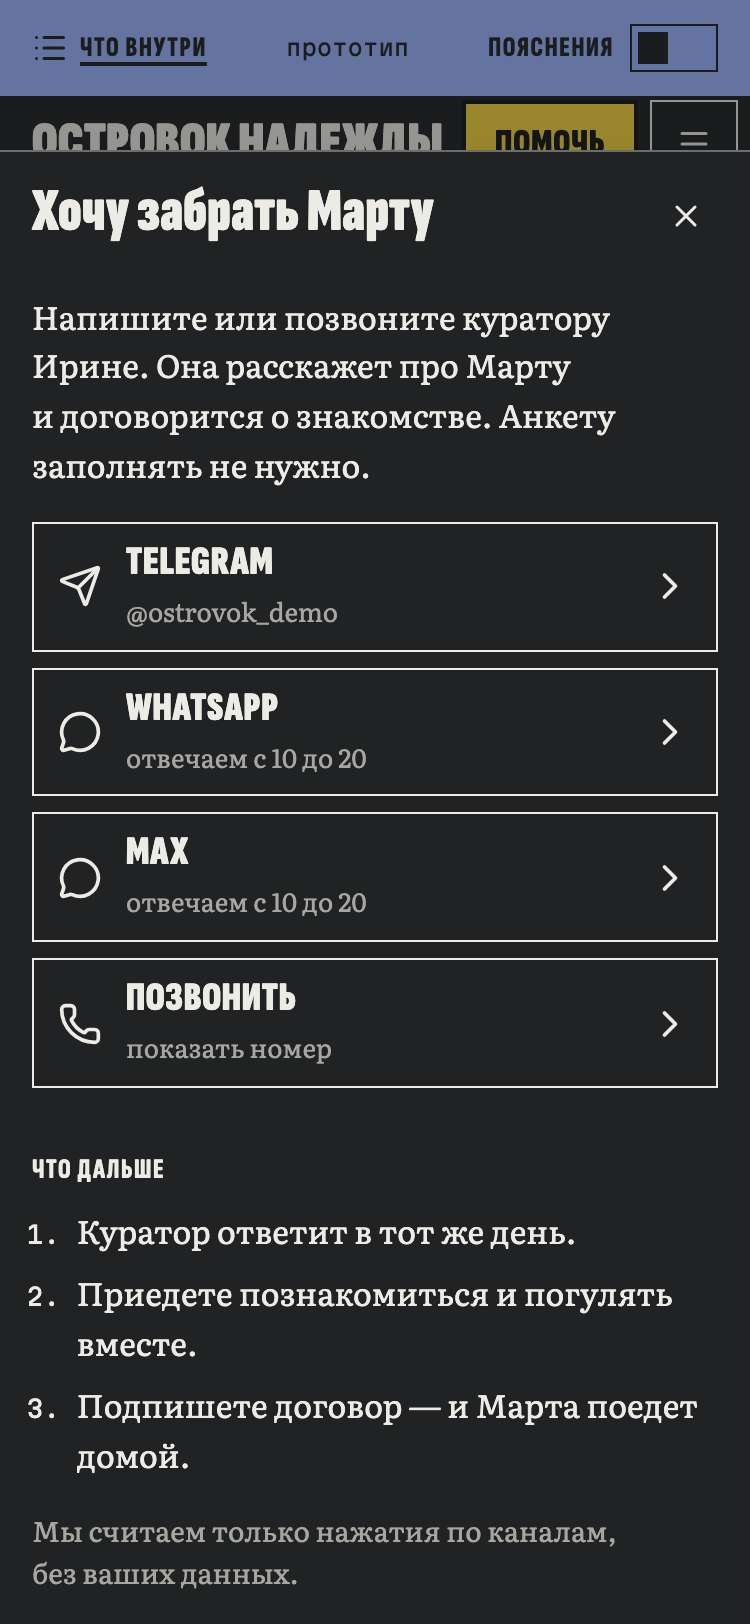
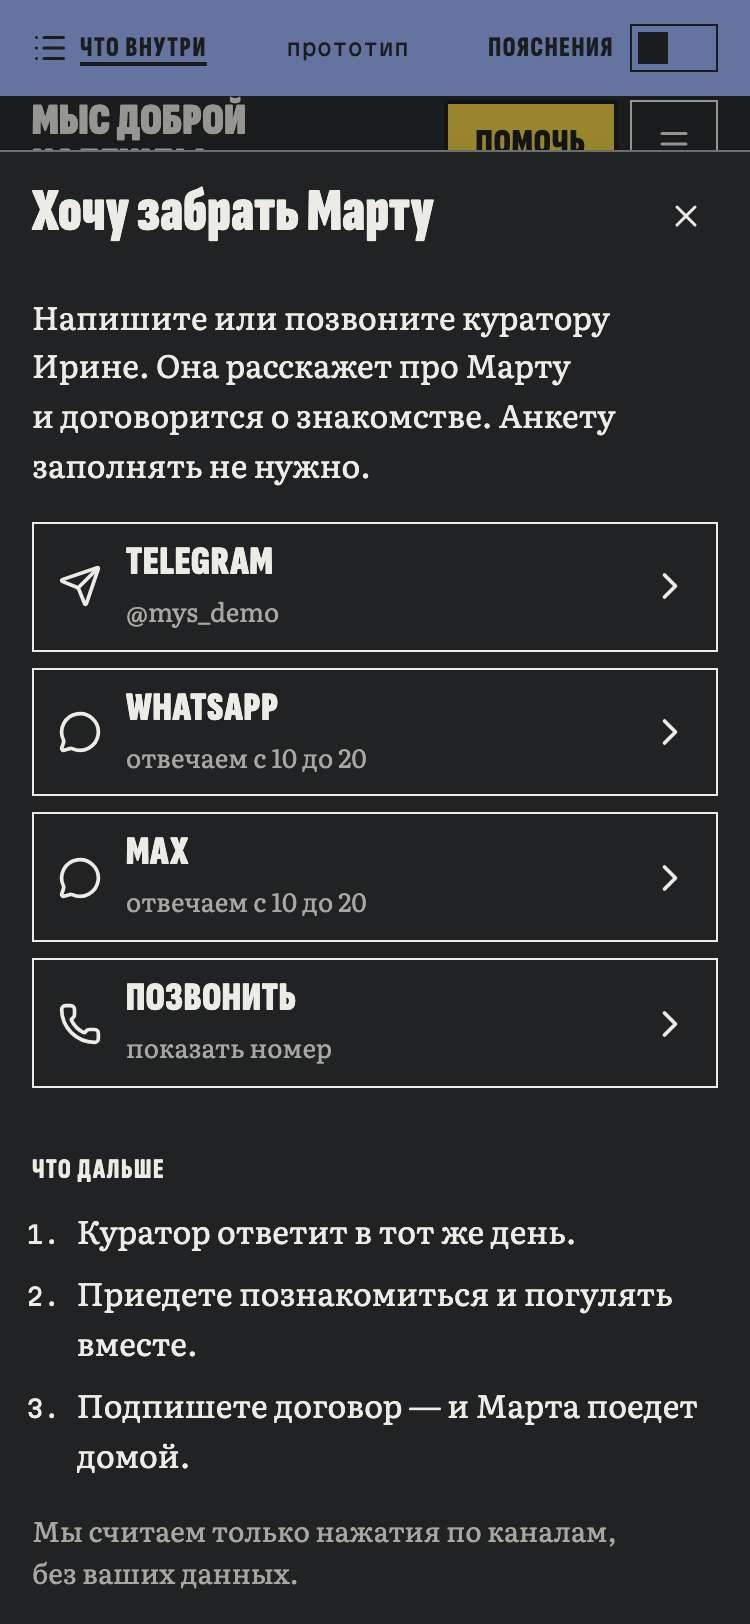
[DS-11] Переименование приюта: «Мыс доброй надежды» — прототип и тесты (#139)
* chore(prototype): rename the shelter to «Мыс доброй надежды»

The shelter is called «Мыс доброй надежды», not «Островок Надежды».
Renames it in the title, the header, the admin bar, the hub and the
«О приюте» page, the meta description, the demo contacts and the
localStorage keys (mys-theme, mys-notes). The file to publish is now
dist/mys-dobroy-nadezhdy.html.

Refs #138

* fix(prototype): put the name in two lines in the phone header

The new name is two letters longer: in one line at 375 px it pushed the
«Помочь» button 21 px off the screen on every page but the home one.
Below 640 px the header mark now stands in two lines of 22 px, as tall
as the button; it also fits at 320 and 360 px, where the old name did
not.

Refs #138

* test(admin): use the shelter's name in the settings tests

Refs #138

* docs(prototype): retake the screenshots with the new name

Refs #138

---------

Changed region(s): [[0.0307, 0.0616, 1.0, 0.0924], [0.2147, 0.3695, 0.46, 0.4002]]

diff --git a/prototype/src/js/90-app.js b/prototype/src/js/90-app.js
@@ -86,7 +86,7 @@ function siteHeader(page, route) {
   ).join("");
   const dark = isDark();
   return `<header class="site-header"><div class="wrap site-header-in">
-    <a class="mark" href="#/home">Островок Надежды</a>
+    <a class="mark" href="#/home">Мыс доброй <br />надежды</a>
     <nav class="site-nav" aria-label="Основная">${nav}</nav>
     <div class="site-tools">
       <button type="button" class="btn btn-outline btn-icon header-theme" id="theme-toggle" data-action="theme" aria-label="${dark ? "Включить светлую тему" : "Включить тёмную тему"}">${icon(dark ? "sun" : "moon")}</button>
@@ -98,7 +98,7 @@ function siteHeader(page, route) {
 
 function siteFooter() {
   return `<footer class="site-footer surface-footer"><div class="wrap">
-    <a class="mark" href="#/home">Островок Надежды</a>
+    <a class="mark" href="#/home">Мыс доброй надежды</a>
     <div class="footer-cols">
       <p class="muted">${SHELTER.legal} · ИНН 0000000000 · реквизиты и устав — в разделе «Документы». Демо-данные.</p>
       <ul><li><a href="#/about">О приюте</a></li><li><a href="#/documents">Документы</a></li><li><a href="#/contacts">Контакты</a></li><li><a href="#/stories">Они дома</a></li></ul>
@@ -133,7 +133,7 @@ function adminChrome(page, route) {
       `<a href="${href}"${names.includes(route?.name) ? ' aria-current="page"' : ""}>${icon(name)}${title}</a>`,
   ).join("");
   return `<header class="admin-bar admin"><div class="wrap admin-bar-in">
-      <a class="admin-mark" href="#/admin">Островок Надежды · Админка</a>
+      <a class="admin-mark" href="#/admin">Мыс доброй надежды · Админка</a>
       <div class="row">
         <span>${STAFF.name} <span class="muted">· ${STAFF.role}</span></span>
         <button type="button" class="btn btn-outline btn-icon btn-sm" id="theme-toggle" data-action="theme" aria-label="${dark ? "Включить светлую тему" : "Включить тёмную тему"}">${icon(dark ? "sun" : "moon")}</button>
@@ -214,7 +214,7 @@ function render(options = {}) {
   renderedHash = currentHash;
   app.classList.toggle("is-refresh", keepScroll);
   app.innerHTML = shell(page, route);
-  document.title = `${page.title} — Островок Надежды`;
+  document.title = `${page.title} — Мыс доброй надежды`;
   layerRoot.classList.toggle("admin", Boolean(page.admin));
   typograf(app);
   if (keepScroll) {
@@ -404,7 +404,7 @@ function syncThemeButton() {
 
 ACTIONS.theme = (el) => {
   ui.theme = isDark() ? "light" : "dark";
-  remember("ostrovok-theme", ui.theme);
+  remember("mys-theme", ui.theme);
   applyTheme();
   syncThemeButton();
   if (ui.layer?.type === "menu") refresh(el.id);
@@ -412,7 +412,7 @@ ACTIONS.theme = (el) => {
 
 ACTIONS.notes = (el) => {
   ui.notes = el.checked;
-  remember("ostrovok-notes", ui.notes ? "on" : null);
+  remember("mys-notes", ui.notes ? "on" : null);
   document.documentElement.classList.toggle("notes-on", ui.notes);
   if (!ui.notes) return;
   // Say how many notes this screen has: the first one may be below the fold.
@@ -624,8 +624,8 @@ window.protoCheck = protoCheck;
 // ——— Start.
 
 document.documentElement.lang = "ru";
-ui.theme = recall("ostrovok-theme");
-ui.notes = recall("ostrovok-notes") === "on";
+ui.theme = recall("mys-theme");
+ui.notes = recall("mys-notes") === "on";
 document.documentElement.classList.toggle("notes-on", ui.notes);
 applyTheme();
 new MutationObserver(() => {

diff --git a/e2e/admin-shell.spec.ts b/e2e/admin-shell.spec.ts
@@ -158,7 +158,9 @@ test("the owner fills in the settings; they validate and stay saved", async ({
 
   // An invalid field: the error is at the field, which takes the focus, and
   // what was typed stays.
-  await page.getByLabel("Название организации").fill("АНО «Островок Надежды»");
+  await page
+    .getByLabel("Название организации")
+    .fill("АНО «Мыс доброй надежды»");
   await page.getByLabel("ИНН").fill("12345");
   await save.click();
   const inn = page.getByLabel("ИНН");
@@ -168,25 +170,25 @@ test("the owner fills in the settings; they validate and stay saved", async ({
     "ИНН — 10 цифр у организации или 12 у ИП.",
   );
   await expect(page.getByLabel("Название организации")).toHaveValue(
-    "АНО «Островок Надежды»",
+    "АНО «Мыс доброй надежды»",
   );
 
   // Both projects save the same values at the same time: the last write
   // wins, and it is the same write.
   await inn.fill("7707 083 893");
   await page.getByLabel("Телефон").fill("+7 900 123-45-67");
-  await page.getByLabel("Telegram").fill("@ostrovok_nadezhdy");
+  await page.getByLabel("Telegram").fill("@mys_dobroy_nadezhdy");
   await save.click();
   await expect(page.getByText("Настройки сохранены")).toBeVisible();
   // The form shows what was stored: digits without spaces, a link for a nick.
   await expect(inn).toHaveValue("7707083893");
   await expect(page.getByLabel("Telegram")).toHaveValue(
-    "https://t.me/ostrovok_nadezhdy",
+    "https://t.me/mys_dobroy_nadezhdy",
   );
 
   await page.reload();
   await expect(page.getByLabel("Название организации")).toHaveValue(
-    "АНО «Островок Надежды»",
+    "АНО «Мыс доброй надежды»",
   );
   await expect(page.getByLabel("ИНН")).toHaveValue("7707083893");
   await expect(page.getByLabel("Телефон")).toHaveValue("+7 900 123-45-67");

diff --git a/prototype/src/js/70-pages-demo.js b/prototype/src/js/70-pages-demo.js
@@ -155,7 +155,7 @@ PAGES.hub = () => ({
       <div class="hub-lead">
         <div class="stack-sm">
           <div><span class="demo-tag">прототип · демо-данные</span></div>
-          <h1 class="t-hero no-hyphens" id="hub-title">Сайт приюта «Островок Надежды»</h1>
+          <h1 class="t-hero no-hyphens" id="hub-title">Сайт приюта «Мыс доброй надежды»</h1>
           <p class="t-lead">Это макет, по которому можно ходить: так сайт будет выглядеть и работать. Собаки, суммы, имена и адреса выдуманы, деньги не списываются.</p>
           <p>Сайт делает три вещи. Собирает деньги на конкретные нужды: корм, лекарства, ремонт. Показывает, куда ушёл каждый рубль, вплоть до чека. И помогает собакам найти дом.</p>
           <div class="row"><a class="btn btn-lg" href="#/home">Открыть сайт</a><a class="btn btn-outline btn-lg" href="#/admin/login">Открыть админку</a><a href="#/plan">Что будет и когда</a></div>

diff --git a/prototype/src/js/54-pages-more.js b/prototype/src/js/54-pages-more.js
@@ -393,7 +393,7 @@ PAGES.about = () => {
   return {
     title: "О приюте",
     html: `
-      ${pageHead("О приюте", "«Островок Надежды» — небольшой частный приют для собак. Живём на пожертвования и отчитываемся за каждый рубль.")}
+      ${pageHead("О приюте", "«Мыс доброй надежды» — небольшой частный приют для собак. Живём на пожертвования и отчитываемся за каждый рубль.")}
       ${note("mvp", "Тексты этой страницы — заглушка: настоящие напишет приют. Страницу можно править в админке без программиста.")}
       <div class="split">
         <article class="sheet sheet-body">

diff --git a/src/app/admin/(staff)/settings/schema.test.ts b/src/app/admin/(staff)/settings/schema.test.ts
@@ -111,7 +111,7 @@ describe("settings form", () => {
   it("normalises what was typed", () => {
     const settings = settingsFormSchema.parse(
       form((values) => {
-        values.requisites.legalName = "  АНО «Островок»  ";
+        values.requisites.legalName = "  АНО «Мыс доброй надежды»  ";
         values.requisites.inn = "7707-083-893";
         values.requisites.account = "40703.810.9.3800.0001234";
         values.requisites.correspondentAccount = "3010 1810 4000 0000 0225";
@@ -123,7 +123,7 @@ describe("settings form", () => {
     );
 
     expect(settings["shelter.requisites"]).toMatchObject({
-      legalName: "АНО «Островок»",
+      legalName: "АНО «Мыс доброй надежды»",
       inn: "7707083893",
       account: "40703810938000001234",
       correspondentAccount: "30101810400000000225",

diff --git a/prototype/src/js/20-data.js b/prototype/src/js/20-data.js
@@ -7,8 +7,8 @@ const at = (day, hour = 12, minute = 0, month = 9) =>
   new Date(2026, month, day, hour, minute);
 
 const SHELTER = {
-  name: "Островок Надежды",
-  legal: "АНО «Островок Надежды»",
+  name: "Мыс доброй надежды",
+  legal: "АНО «Мыс доброй надежды»",
   address: "посёлок Берёзовка, ул. Полевая, 1",
   pickup: "посёлок Берёзовка, ул. Полевая, 3",
   hours: "каждый день с 10:00 до 18:00, по звонку",
@@ -1118,7 +1118,7 @@ const CURATOR = {
   dat: "Ирине",
   role: "куратор",
   channels: [
-    { id: "telegram", label: "Telegram", hint: "@ostrovok_demo", icon: "send" },
+    { id: "telegram", label: "Telegram", hint: "@mys_demo", icon: "send" },
     {
       id: "whatsapp",
       label: "WhatsApp",

diff --git a/prototype/src/js/50-pages-needs.js b/prototype/src/js/50-pages-needs.js
@@ -133,7 +133,7 @@ PAGES.home = () => {
   const stories = state.dogs.filter((dog) => dog.status === "home");
   const top = hero
     ? `<div class="board-top">${heroNeed(hero)}${todayHelped()}</div>`
-    : `<h1 class="sr-only">Островок Надежды</h1>${emptyState("Пока все сыты 🎉 Посмотрите, кто ждёт дом.", "Собаки", "#/dogs")}`;
+    : `<h1 class="sr-only">Мыс доброй надежды</h1>${emptyState("Пока все сыты 🎉 Посмотрите, кто ждёт дом.", "Собаки", "#/dogs")}`;
   return {
     title: "Главная",
     ownHelp: Boolean(hero),

diff --git a/prototype/src/styles/50-pages.css b/prototype/src/styles/50-pages.css
@@ -27,6 +27,21 @@
   white-space: nowrap;
 }
 
+.mark br {
+  display: none;
+}
+
+/* On a phone the name stands in two lines: in one it pushes «Помочь» off the screen. */
+@media (max-width: 39.99rem) {
+  .site-header .mark {
+    font-size: 1.375rem;
+  }
+
+  .mark br {
+    display: inline;
+  }
+}
+
 .site-nav {
   display: none;
   gap: 1.375rem;

diff --git a/prototype/src/index.html b/prototype/src/index.html
@@ -1,4 +1,4 @@
-<title>Островок Надежды</title>
+<title>Мыс доброй надежды</title>
 <link rel="preconnect" href="https://fonts.googleapis.com" />
 <link rel="preconnect" href="https://fonts.gstatic.com" crossorigin />
 <link

diff --git a/prototype/src/js/40-ui.js b/prototype/src/js/40-ui.js
@@ -14,7 +14,7 @@ const ui = {
   promised: {},
   login: {
     step: 1,
-    email: "irina@ostrovok.example",
+    email: "irina@mys.example",
     password: "demo-demo",
     code: "",
     error: null,

diff --git a/prototype/README.md b/prototype/README.md
@@ -1,6 +1,6 @@
 # Прототип сайта для заказчика
 
-Кликабельный макет сайта приюта «Островок Надежды»: публичный сайт и админка на демо-данных. Нужен, чтобы показать заказчику, как сайт будет выглядеть и работать, и собрать обратную связь до вёрстки настоящих экранов (задачи [DS-9, #128](https://github.com/LedLimon/shelter/issues/128) и [ORG-7, #129](https://github.com/LedLimon/shelter/issues/129)).
+Кликабельный макет сайта приюта «Мыс доброй надежды»: публичный сайт и админка на демо-данных. Нужен, чтобы показать заказчику, как сайт будет выглядеть и работать, и собрать обратную связь до вёрстки настоящих экранов (задачи [DS-9, #128](https://github.com/LedLimon/shelter/issues/128) и [ORG-7, #129](https://github.com/LedLimon/shelter/issues/129)).
 
 **Это демо, а не код сайта.** В `src/` приложения отсюда ничего не попадает. Прототип — один HTML-файл без сервера: его публикуют как артефакт claude.ai и открывают по ссылке на телефоне и компьютере.
 
@@ -15,7 +15,7 @@ node prototype/build.mjs
 python3 -m http.server 8128 --bind 127.0.0.1 --directory prototype/dist
 ```
 
-- `prototype/dist/ostrovok-nadezhdy.html` — файл для публикации. В нём нет `<html>`, `<head>` и `<body>`: их добавляет хостинг артефактов.
+- `prototype/dist/mys-dobroy-nadezhdy.html` — файл для публикации. В нём нет `<html>`, `<head>` и `<body>`: их добавляет хостинг артефактов.
 - `prototype/dist/preview.html` — та же страница как полный документ, для проверки локально: `http://localhost:8128/preview.html`.
 - Папка `dist/` в git не попадает: её всегда можно собрать заново.
 
@@ -25,7 +25,7 @@ python3 -m http.server 8128 --bind 127.0.0.1 --directory prototype/dist
 
 1. Поправить исходники в `prototype/src/`, собрать, проверить локально на 375 px и 1280 px в обеих темах.
 2. Запустить проверку: `node prototype/tools/check.mjs` (нужны `pnpm install` и браузер Playwright). Она открывает все маршруты на 375 px и 1280 px в обеих темах — нет ли горизонтального скролла, ошибок в консоли и второй жёлтой кнопки в кадре, — ищет мёртвые ссылки и кнопки без обработчика и проходит три сценария. То же без Playwright, только ссылки и обработчики: `protoCheck()` в консоли браузера, в ответе должно быть `problems: []`.
-3. Опубликовать `prototype/dist/ostrovok-nadezhdy.html` инструментом Artifact в Claude Code, указав ссылку существующего артефакта (`url`), — адрес останется прежним.
+3. Опубликовать `prototype/dist/mys-dobroy-nadezhdy.html` инструментом Artifact в Claude Code, указав ссылку существующего артефакта (`url`), — адрес останется прежним.
 4. Если менялся внешний вид — обновить скриншоты: `node prototype/tools/screenshots.mjs` (нужны `pnpm install` и браузер Playwright).
 
 ## GitHub Pages
@@ -77,7 +77,7 @@ prototype/
 - **Стили — строго направление «Объявление»** ([docs/design.md](../docs/design.md#визуальный-стиль), [ADR-0006](../docs/adr/0006-visual-direction.md)). Цвета, тень и шкала шрифтов — в `10-tokens.css`; при изменении токена в `src/app/globals.css` его нужно поменять и здесь. Других цветов в прототипе нет.
 - Жёлтый — только кнопка «Помочь» и лист «Сегодня помогли». Язычки — только действие. Срочность и статусы — рамкой, иконкой и словом, без цвета.
 - Синим (цветом ручки) нарисован слой показа: полоса «Что внутри», заметки «Пояснений» и метки этапов. Так его не спутать с самим сайтом.
-- **Название — «Островок Надежды».** Всё остальное выдумано: собаки, нужды, суммы, имена доноров, адрес, реквизиты, контакты куратора. Настоящих персональных данных в прототипе нет и быть не должно.
+- **Название — «Мыс доброй надежды».** Всё остальное выдумано: собаки, нужды, суммы, имена доноров, адрес, реквизиты, контакты куратора. Настоящих персональных данных в прототипе нет и быть не должно.
 - Кнопки, которых в макете нет, открывают заглушку «В прототипе не показано» с объяснением, что там будет и на каком этапе (`stub()` в `40-ui.js`).
 - Метки этапов — по [роадмапу](../docs/roadmap.md): MVP, Фаза 2, Фаза 3. Карта приюта — Фаза 2 (эпик [#120](https://github.com/LedLimon/shelter/issues/120)).
 
